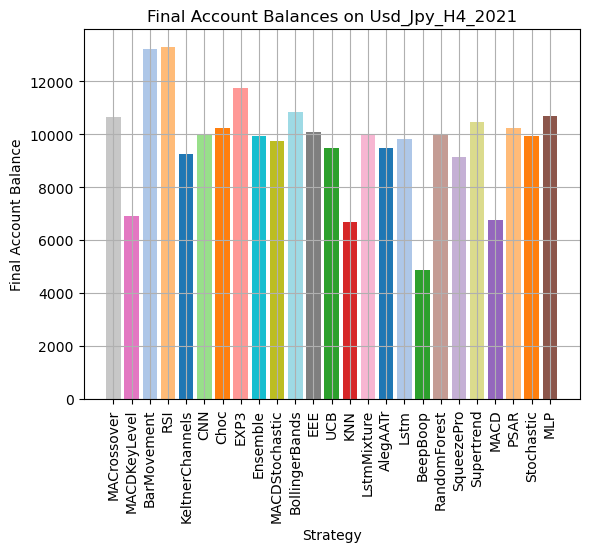
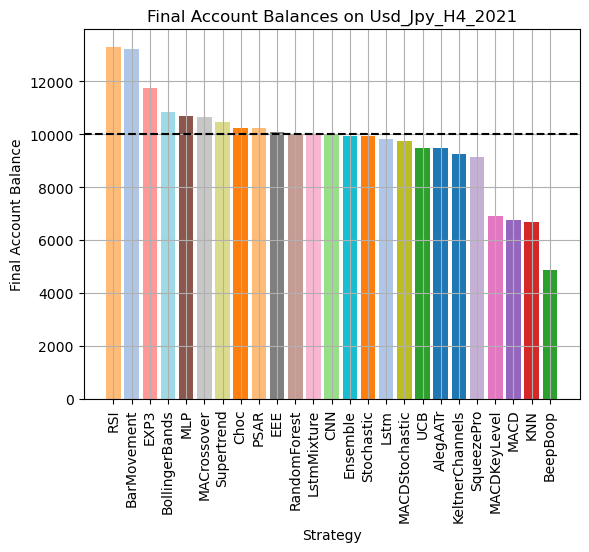
Update plots

diff --git a/experiments/crunch_numbers.py b/experiments/crunch_numbers.py
@@ -86,8 +86,8 @@ def crunch_numbers() -> None:
         plt.bar(names, sums, color=bar_colors)
         plt.xlabel('Strategy')
         plt.xticks(rotation=90)
-        plt.ylabel('Profit Sum')
-        plt.title(f'Total Profit Sum (Across Every Test Condition)')
+        plt.ylabel('Sum')
+        plt.title(f'Total Profit Sum (Phase 1)')
         plt.savefig(f'../experiments/plots/report/profit_sums', bbox_inches='tight')
         plt.clf()
 
@@ -139,8 +139,8 @@ def crunch_numbers() -> None:
         plt.bar(names, avgs, color=bar_colors)
         plt.xlabel('Strategy')
         plt.xticks(rotation=90)
-        plt.ylabel('Average Profit Amount')
-        plt.title(f'Average Profit Amounts (Across Every Test Condition)')
+        plt.ylabel('Amount')
+        plt.title(f'Average Profit Amounts (Phase 1)')
         plt.savefig(f'../experiments/plots/report/avg_profit_amounts', bbox_inches='tight')
         plt.clf()
 
@@ -150,8 +150,8 @@ def crunch_numbers() -> None:
         plt.bar(names, avgs, yerr=standard_errors, color=bar_colors)
         plt.xlabel('Strategy')
         plt.xticks(rotation=90)
-        plt.ylabel('Average Profit Amount')
-        plt.title(f'Average Profit Amounts (Across Every Test Condition) With Standard Errors')
+        plt.ylabel('Amount')
+        plt.title(f'Average Profit Amounts (Phase 1)')
         plt.savefig(f'../experiments/plots/report/avg_profit_amounts_with_se', bbox_inches='tight')
         plt.clf()
 
@@ -162,8 +162,8 @@ def crunch_numbers() -> None:
             bp['boxes'][i].set_facecolor(box_colors[i])
         plt.xlabel('Strategy')
         plt.xticks(list(range(1, len(names) + 1)), names, rotation=90)
-        plt.ylabel('Profit Amount')
-        plt.title(f'Profit Amounts (Across Every Test Condition)')
+        plt.ylabel('Amount')
+        plt.title(f'Profit Amounts (Phase 1)')
         plt.savefig(f'../experiments/plots/report/profit_amounts', bbox_inches='tight')
         plt.clf()
 

diff --git a/experiments/plots.py b/experiments/plots.py
@@ -73,20 +73,25 @@ def create_plots() -> None:
                     filtered_file_list = [file_name for file_name in file_list if
                                           (pair_time_year_str in file_name and 'final_balances' in file_name)]
 
-                    final_balances, strategy_names, max_len = [], [], 0
+                    final_balances_with_names, max_len = [], 0
 
                     for file_name in filtered_file_list:
                         strategy_name = file_name.split('_')[0]
                         final_balance = pickle.load(open(f'../experiments/results/{file_name}', 'rb'))
 
-                        strategy_names.append(strategy_name)
-                        final_balances.append(final_balance)
+                        final_balances_with_names.append((strategy_name, final_balance))
+
+                    # Sort by best performance
+                    final_balances_with_names.sort(key=lambda x: x[1], reverse=True)
+                    strategy_names = [tup[0] for tup in final_balances_with_names]
+                    final_balances = [tup[1] for tup in final_balances_with_names]
 
                     # Bar graph containing final balances for each strategy
                     names_to_colors = pickle.load(open('./plots/color_mappings.pickle', 'rb'))
                     bar_colors = [names_to_colors[name] for name in strategy_names]
                     plt.grid()
                     plt.bar(strategy_names, final_balances, color=bar_colors)
+                    plt.axhline(y=10000, color='black', linestyle='--')
                     plt.xlabel('Strategy')
                     plt.xticks(rotation=90)
                     plt.ylabel('Final Account Balance')
